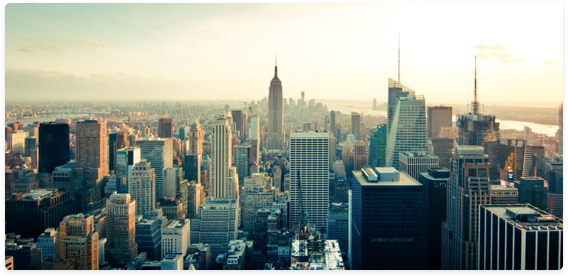
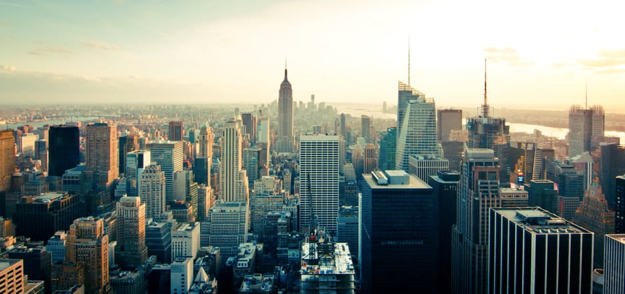
resized images in dashboard

diff --git a/dashboard images.html b/dashboard images.html
@@ -92,7 +92,7 @@
        </div>
        <div class="content-item">
          <div class="item-box">
-         <img src="http://2.bp.blogspot.com/-IdR3fuBjG0M/UOdukRgISjI/AAAAAAAAGkg/SZTLz7HqHc8/s1600/3g09739r-www.freevintageposters.com.jpg">
+         <img src="http://1.bp.blogspot.com/-95lW-ZAme34/Uauo1J84BhI/AAAAAAAAJKQ/nvMYKBnpc5E/s210-c/the-lure-of-the-underground-by-alfred-leete-1927-vintage-london-travel-poster-www.freevintageposters.com.jpg">
          </div>
        </div>
      </div>

diff --git a/css/style.css b/css/style.css
@@ -700,7 +700,7 @@ footer {
 /*Content items*/
  .item-box > img, .item-box-horizontal > img {
    position:absolute;
-   height:auto;
+   height:100%;
    width:auto;
    top:0;
    left:0;
